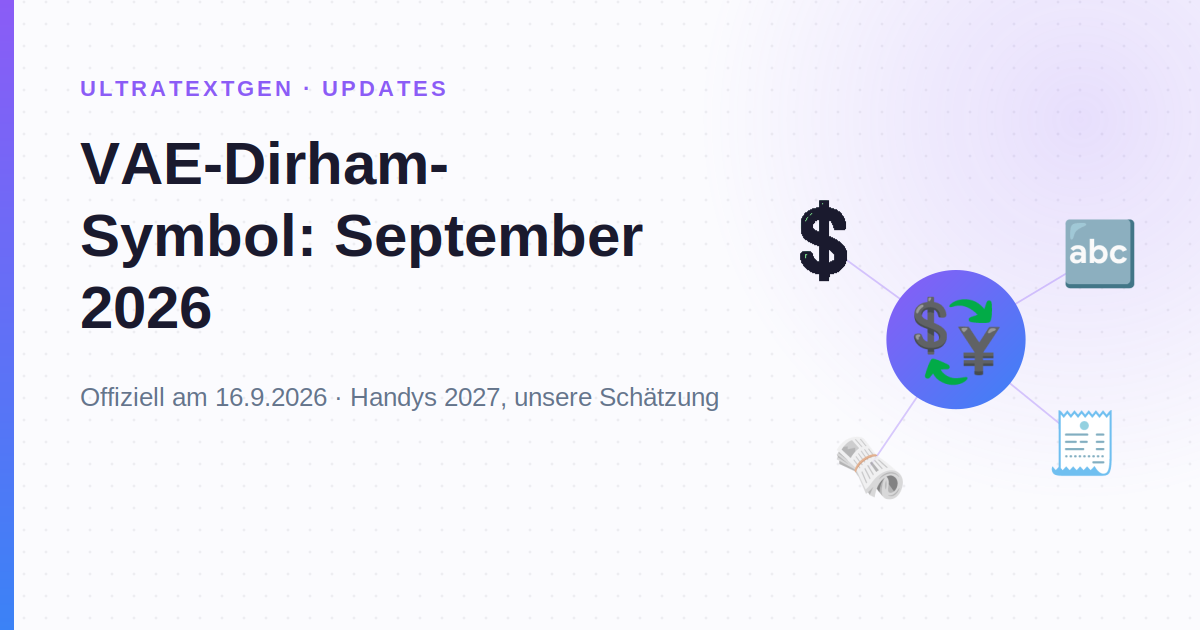
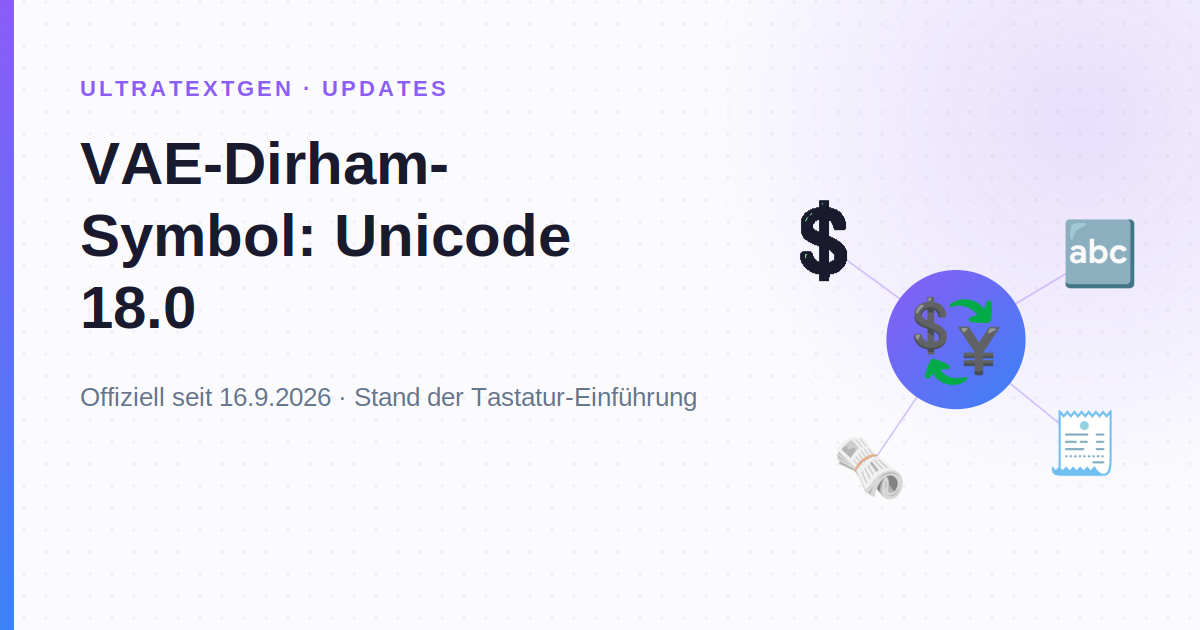
chore(art): regenerate the Unicode 18 updates cards with their new titles
27 OG cards (EN + locale entries) re-rendered with the final-status titles
registered earlier. Heroes left as they were: they carry no title.

Also stops page_pictographs from counting lone regional-indicator letters:
a flag emoji splits into two of them when read one character at a time,
and on the dirham update a lone 🇴 and 🇲 displaced the currency glyphs.

Claude-Session: https://claude.ai/code/session_01HqBuKfkapH3hJQtBMi2cnA

Changed region(s): [[0.1542, 0.6032, 0.6167, 0.6635], [0.2775, 0.3317, 0.555, 0.4222], [0.0617, 0.4524, 0.185, 0.5429]]

diff --git a/scripts/generate-site-art.py b/scripts/generate-site-art.py
@@ -3609,6 +3609,12 @@ def page_pictographs(slug, limit=5, floor=3):
         for ch in html:
             if ch in _CHROME or not _is_pictograph(ch):
                 continue
+            # A flag is two regional-indicator letters; counted one character
+            # at a time it splits, and a lone 🇴 or 🇲 won the dirham update's
+            # card over the currency glyphs the page is about. A lone
+            # indicator is never art.
+            if 0x1F1E6 <= ord(ch) <= 0x1F1FF:
+                continue
             counts[ch] = counts.get(ch, 0) + 1
         if len(counts) >= floor:
             out = [c for c, _ in sorted(counts.items(), key=lambda kv: (-kv[1], kv[0]))][:limit]
